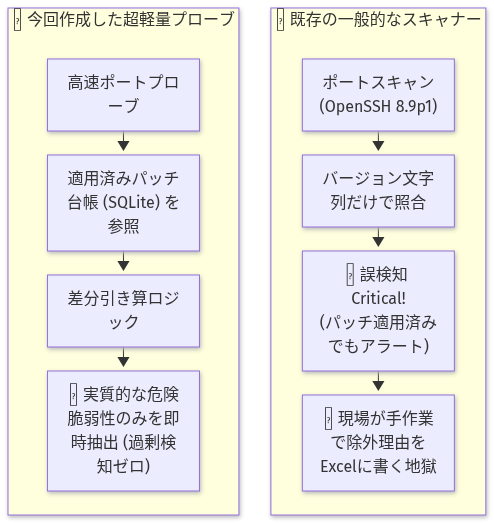
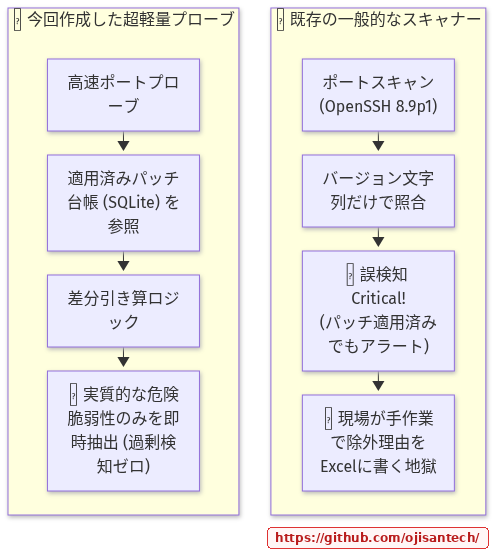
docs: 図・フロー画像へ著作権スタンプを刻印しMarkdownの冗長キャプションをクリーンアップ

diff --git a/QIITA_ARTICLE_DETAIL_1.md b/QIITA_ARTICLE_DETAIL_1.md
@@ -31,10 +31,9 @@
 
 ## 2. アーキテクチャと深層メカニズム
 
-### システム俯瞰図 (Source: https://github.com/ojisantech/)
+### システム俯瞰図
 システムの全体構造および通信・処理フローは以下の通りです。
 
-*※ アーキテクチャ俯瞰図・処理フロー (Source: https://github.com/ojisantech/)*
 ```mermaid
 flowchart TD
     subgraph Arch ["システム俯瞰アーキテクチャ (Source: https://github.com/ojisantech/)"]
@@ -50,7 +49,6 @@ flowchart TD
 
 ### 既存アプローチとの比較
 
-*※ アーキテクチャ俯瞰図・処理フロー (Source: https://github.com/ojisantech/)*
 ```mermaid
 flowchart TD
     subgraph Bad ["❌ 既存の一般的なスキャナー"]
@@ -79,7 +77,6 @@ flowchart TD
 ## 3. 実装詳細とパラメータ完全解説
 
 ### 主なCLI実行例
-*※ コード抜粋 (Source: https://github.com/ojisantech/)*
 ```bash
 # (Source: https://github.com/ojisantech/)
 # 1. 診断プローブを実行（開放ポート検知 ＆ 適用済みCVE引き算）

diff --git a/QIITA_ARTICLE_DETAIL_2.md b/QIITA_ARTICLE_DETAIL_2.md
@@ -26,10 +26,9 @@
 
 ## 2. アーキテクチャと深層メカニズム
 
-### システム俯瞰図 (Source: https://github.com/ojisantech/)
+### システム俯瞰図
 システムの全体構造および通信・処理フローは以下の通りです。
 
-*※ アーキテクチャ俯瞰図・処理フロー (Source: https://github.com/ojisantech/)*
 ```mermaid
 sequenceDiagram
     %% (Source: https://github.com/ojisantech/)
@@ -53,7 +52,6 @@ sequenceDiagram
 
 ### 既存アプローチとの比較
 
-*※ アーキテクチャ俯瞰図・処理フロー (Source: https://github.com/ojisantech/)*
 ```mermaid
 flowchart TD
     subgraph Heavy ["❌ 既存のエージェント型ツール"]
